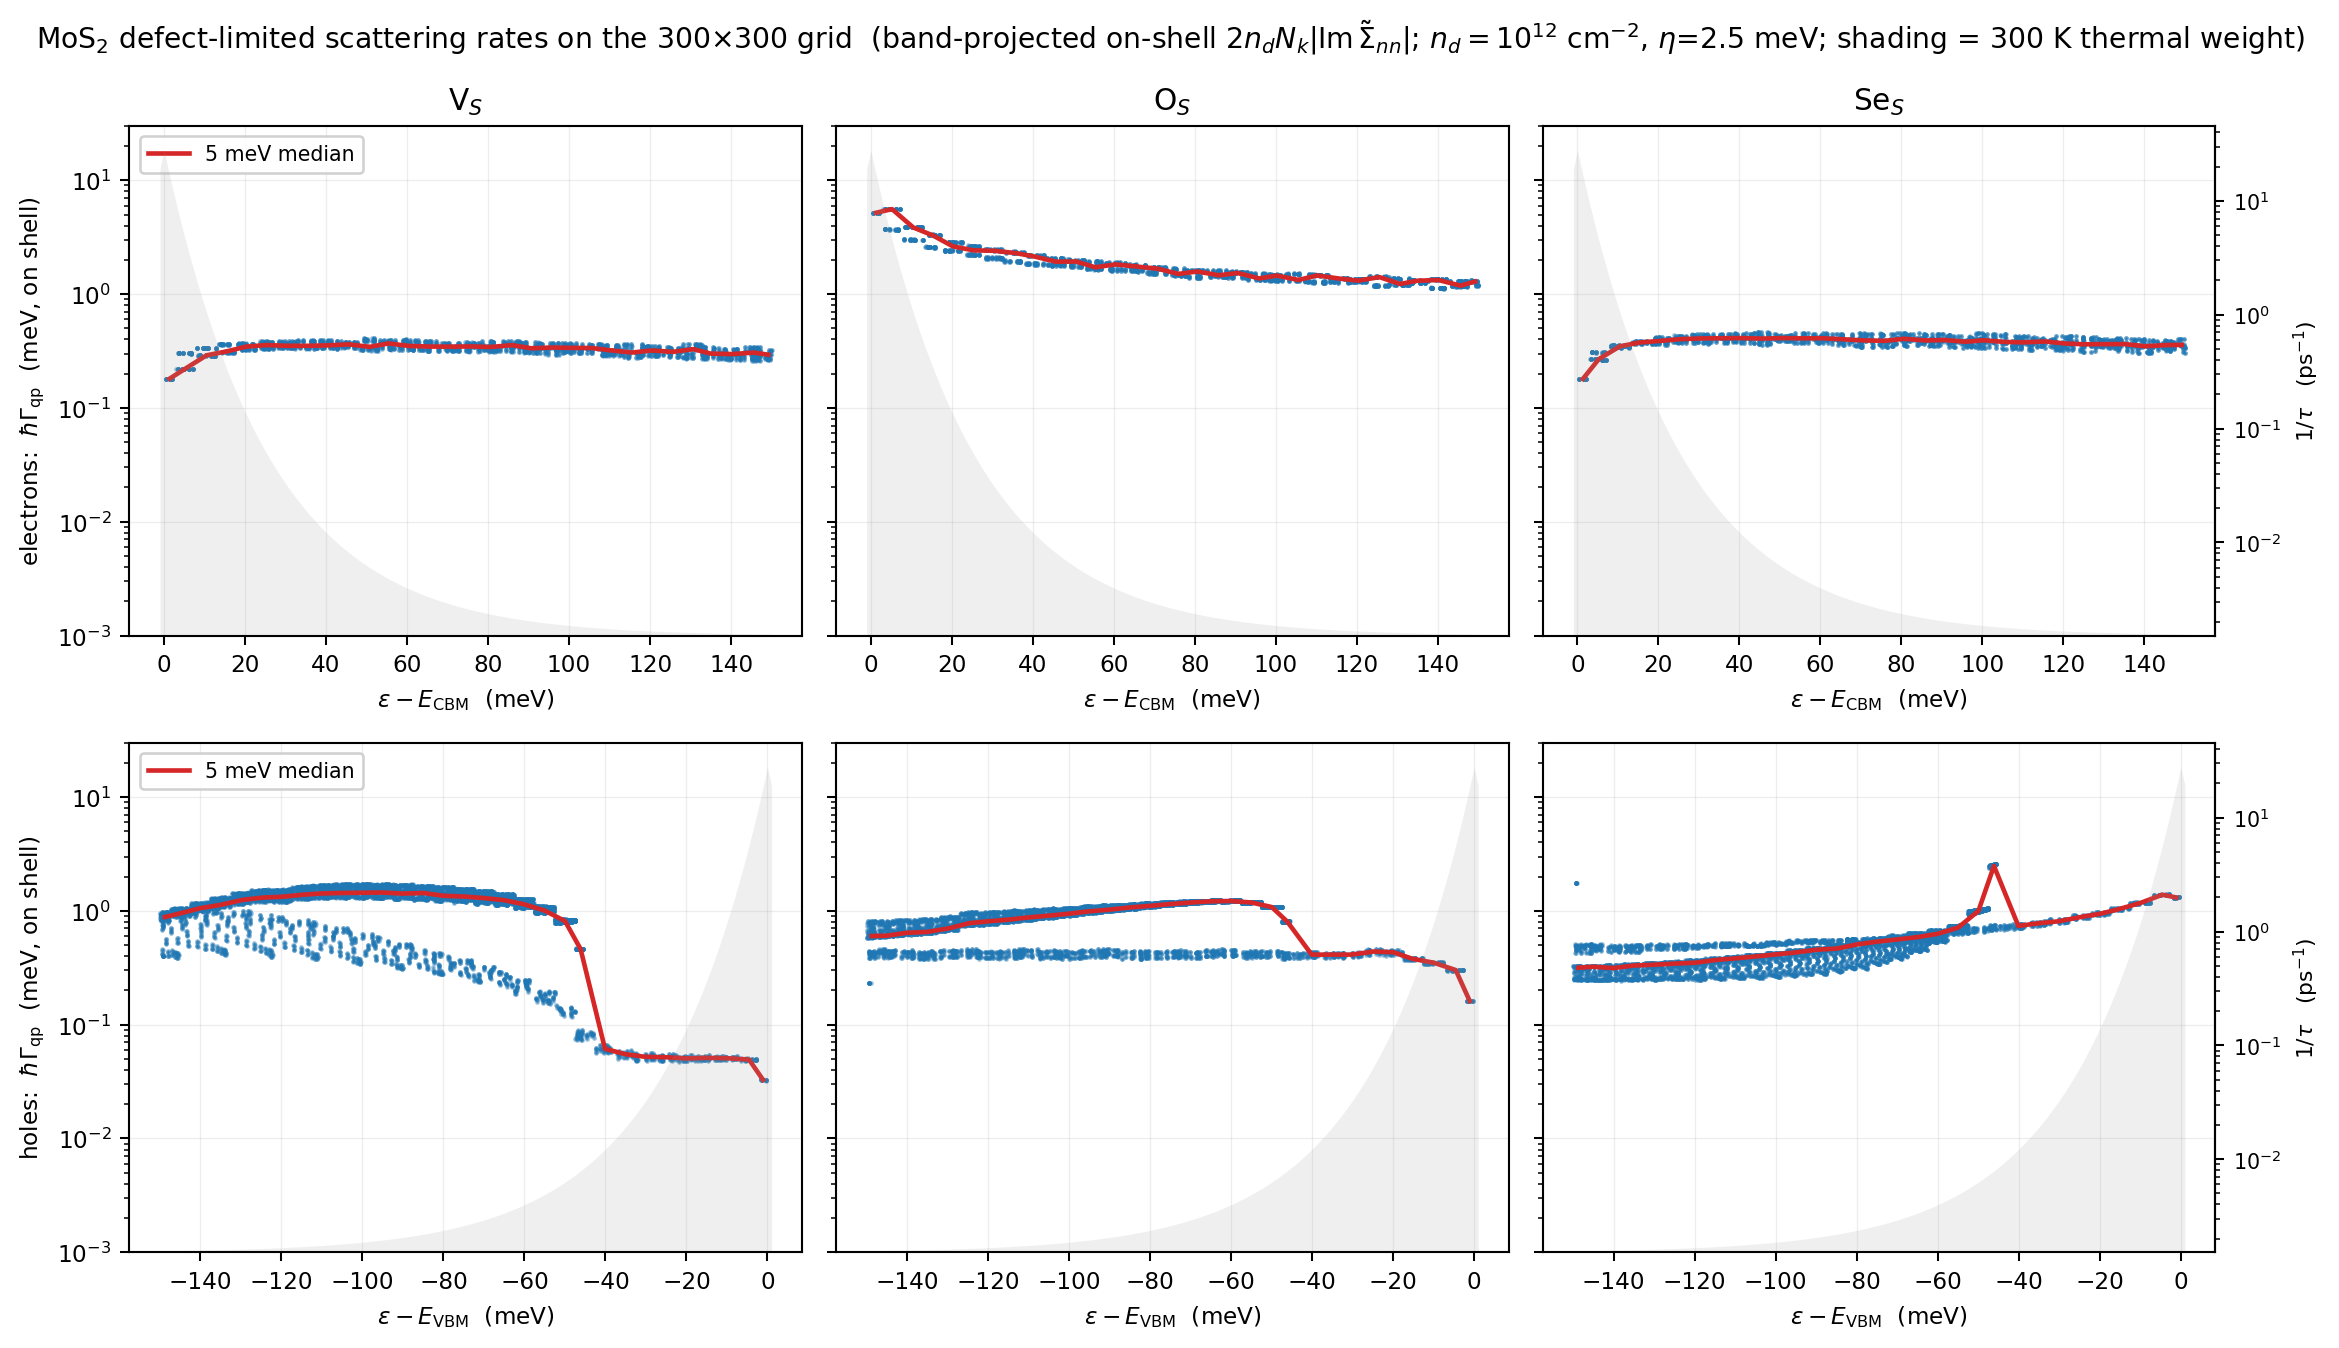
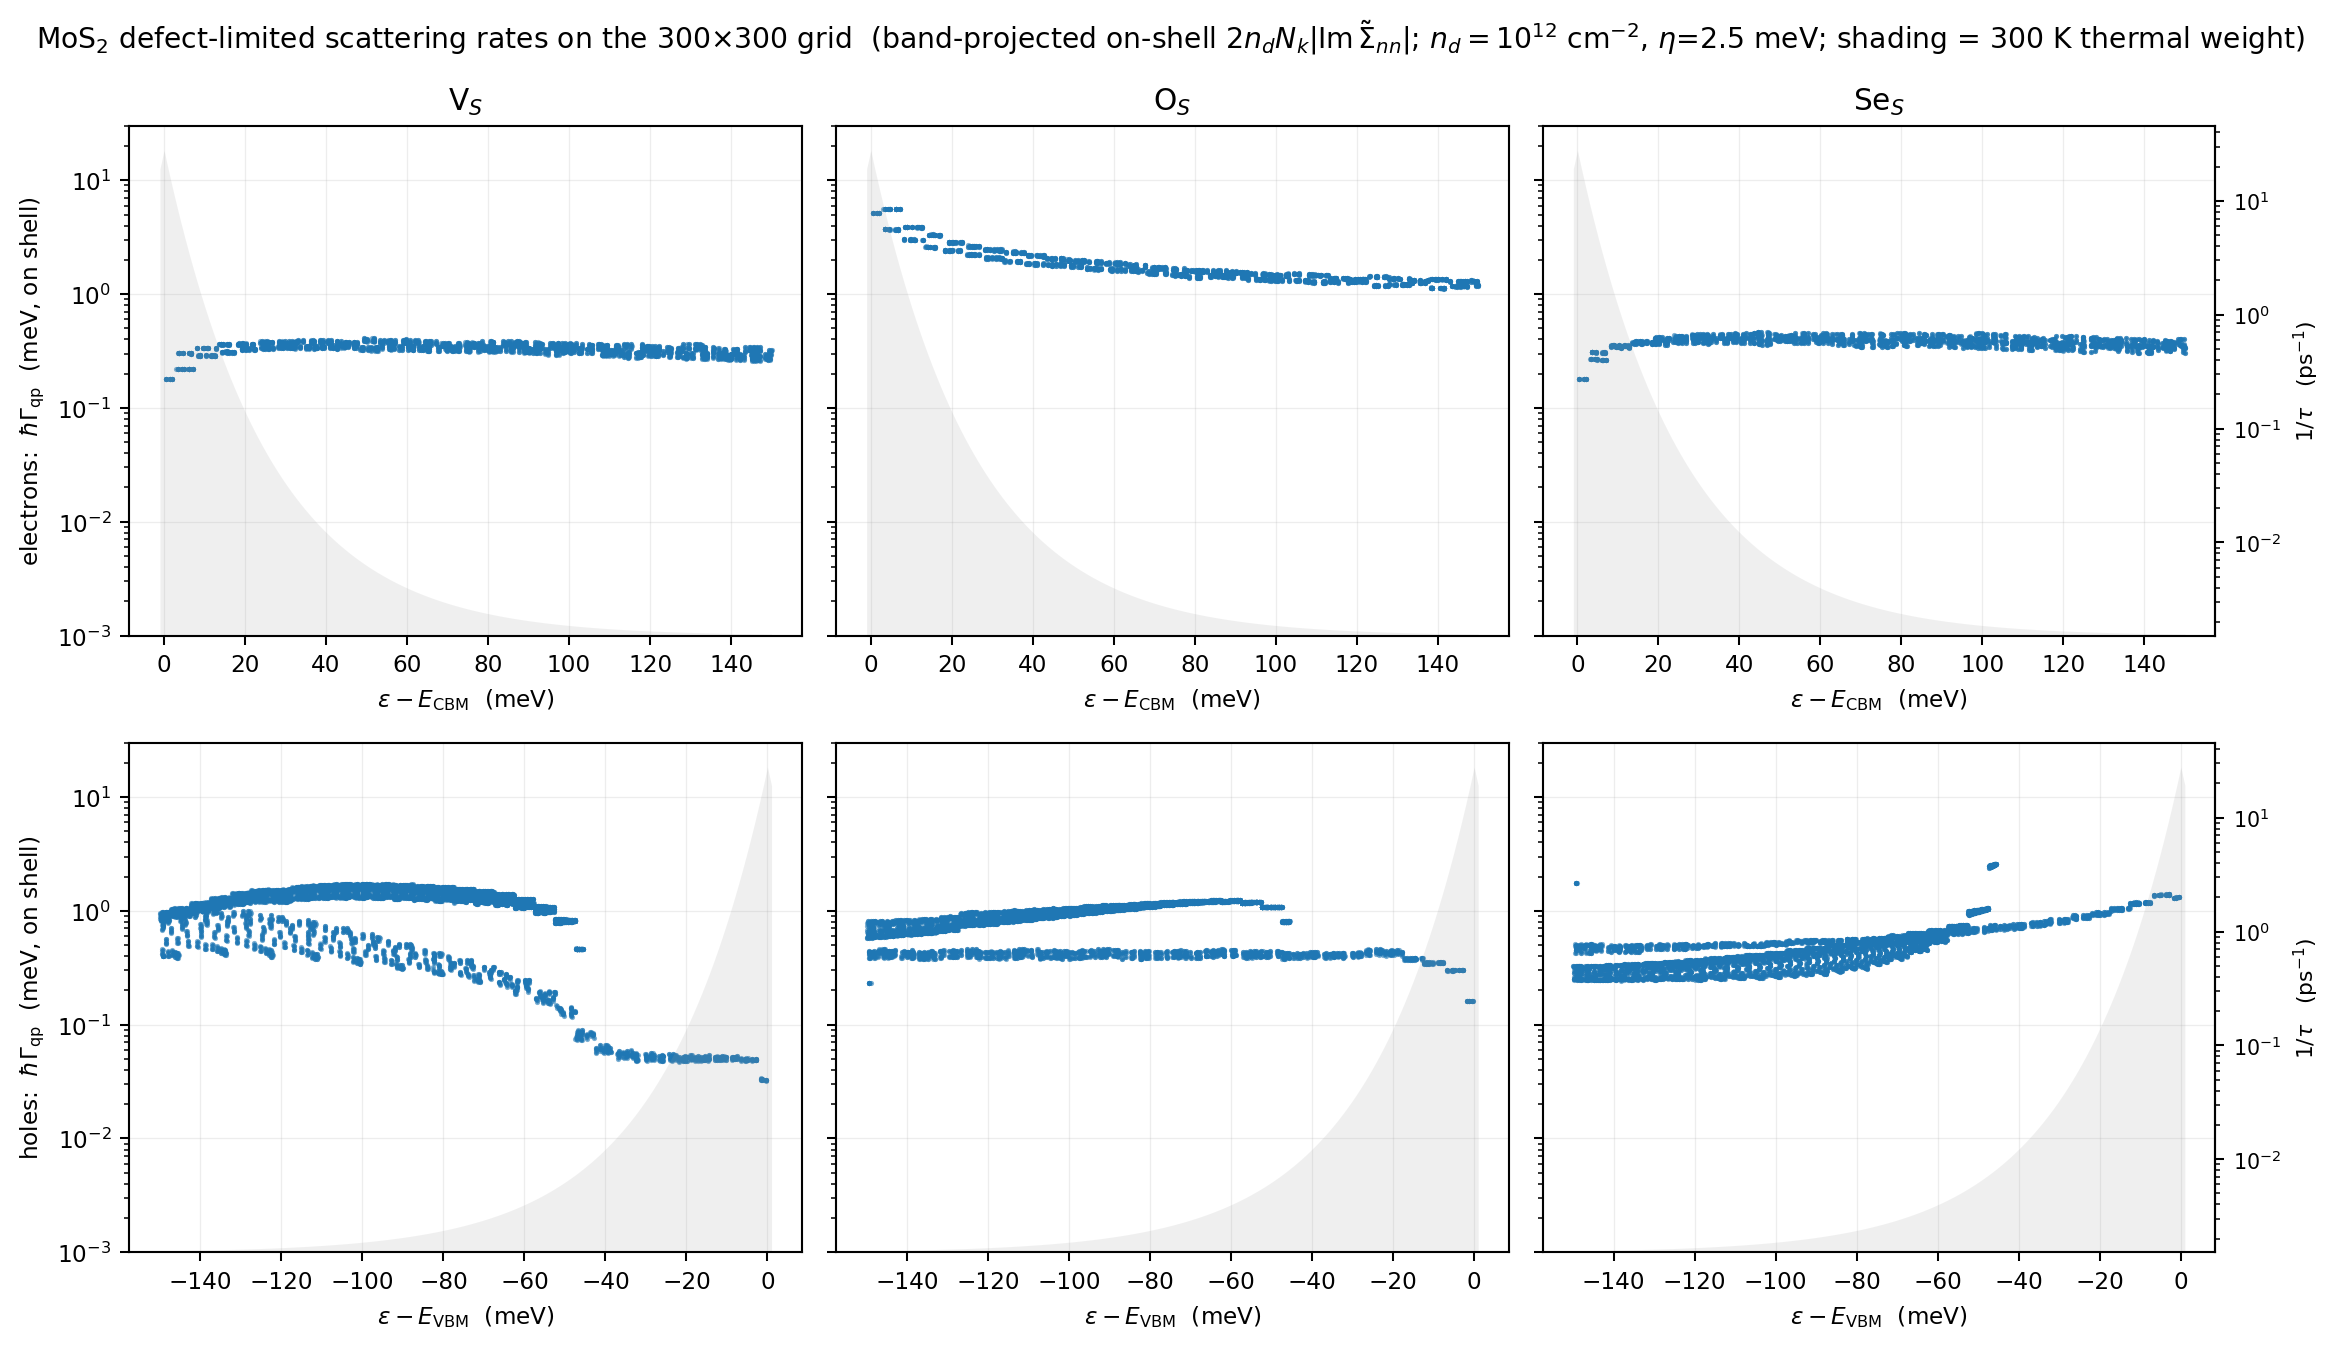
mos2-mobility: rate figure as pure scatter (drop the median line)

diff --git a/docs/pages/mos2-mobility.html b/docs/pages/mos2-mobility.html
@@ -47,7 +47,7 @@
 <p><img src="../assets/mos2mob_rate_audit.png" alt="on-shell band-projected linewidths in the 300 K transport windows" style="max-width:100%;height:auto;display:block;margin:1.2rem auto;border:1px solid #d0d7de;border-radius:6px"></p>
 <p><strong>Holes</strong>: V$_\mathrm{S}$ is nearly <em>transparent at the VBM edge</em> ($\hbar\Gamma$ = 0.04–0.05 meV over the top 40 meV) — its huge vertex lives in the $-0.28$ eV deep resonance and the $+0.02$ eV gap state, both outside the thermal window, and the full-$T$ unitary suppression of the deep well (the same physics that makes Born wrong by 53×) removes the band-edge scattering. Se$_\mathrm{S}$'s only feature — the weak isovalent resonance — sits <em>exactly at the VBM</em> ($\hbar\Gamma$ = 1.25 meV at the edge, 30× V$_\mathrm{S}$), squarely on top of the $e^{-|\varepsilon-\mathrm{edge}|/k_BT}$ weight; thermally averaged, $\langle\Gamma\rangle$ = 0.32 / 0.57 / 1.03 meV for V$_\mathrm{S}$/O$_\mathrm{S}$/Se$_\mathrm{S}$, and the $\tau$-weighting ($\langle 1/\Gamma\rangle \ne 1/\langle\Gamma\rangle$, amplified by V$_\mathrm{S}$'s transparent edge) reproduces the SERTA ratio $\mu_h$(V$_\mathrm{S}$)/$\mu_h$(Se$_\mathrm{S}$) = 6.0. <strong>Electrons</strong>: O$_\mathrm{S}$'s CBM resonance puts $\hbar\Gamma$ = 3.95 meV right at the edge ($\langle\Gamma\rangle$ = 3.4 meV, 12× the others) — $\mu_e$ last; V$_\mathrm{S}$ and Se$_\mathrm{S}$ are nearly identical (0.25 vs 0.28 meV), matching $\mu_e$ 7654 vs 7412. <strong>Why the maps mislead</strong>: they show the 22-band <em>trace</em> on a log scale spanning to the 42 eV O$_\mathrm{S}$ peak — transport only sees the top-band diagonal projection, on shell, within ~3$k_BT$ of the edge. Data <code>rate_audit.npz</code>, script <code>diag/rate_audit.py</code> (Anvil job 20136159).</p>
 
-<p><strong>The same rates resolved on a full 300×300 $k$ grid</strong> (11 304 hole and 5 120 electron states within 150 meV of their edges; every point is one grid state, red line the 5 meV median; right axis $1/\tau$):</p>
+<p><strong>The same rates resolved on a full 300×300 $k$ grid</strong> (11 304 hole and 5 120 electron states within 150 meV of their edges; every point is one grid state — the two spin-split branches resolve as separate arcs; right axis $1/\tau$):</p>
 <p><img src="../assets/mos2mob_rate_grid.png" alt="scattering rate vs energy on the 300x300 grid, three defects x electrons/holes" style="max-width:100%;height:auto;display:block;margin:1.2rem auto;border:1px solid #d0d7de;border-radius:6px"></p>
 <p>The grid resolves what a high-symmetry line cannot: <strong>the hole side is a $\Gamma$-pocket-versus-K-valley story</strong>. The doubly degenerate $\Gamma$ valence maximum sits at $E_\mathrm{VBM}-45.6$ meV, and below it the $\Gamma$ pocket dominates the phase space (the state count per 5 meV bin falls 590 → 72, a factor 6, on crossing it). In that deeper region all three defects scatter comparably ($\hbar\Gamma\approx1$–1.5 meV). Above it only the K/K′ valleys survive — and there the three separate by a factor of 27: V$_\mathrm{S}$ collapses to <strong>0.049 meV</strong> (a 26× step down at the $\Gamma$-pocket edge — the vacancy's $p_z$-heavy dangling-bond potential couples strongly to the out-of-plane $\Gamma$ states but barely to the in-plane K-valley valence band), O$_\mathrm{S}$ falls only 3× to 0.17–0.40 meV, and Se$_\mathrm{S}$ instead <em>rises</em> toward the edge to <strong>1.334 meV</strong> because its isovalent resonance is pinned at the VBM. Since the 300 K thermal weight (shading) lies almost entirely within ~26 meV of the edge, transport samples exclusively the K/K′ region, and V$_\mathrm{S}$'s transparency there is what produces $\mu_h$ = 15 243. On the electron side V$_\mathrm{S}$ (0.289 meV) and Se$_\mathrm{S}$ (0.306 meV) are flat and nearly identical across the whole window — matching $\mu_e$ = 7654 vs 7412 — while O$_\mathrm{S}$'s CBM resonance starts at 3.886 meV and decays to 1.3 meV at $+150$ meV. The SERTA ordering at 300 K (V$_\mathrm{S}$ 11 770 $\gg$ O$_\mathrm{S}$ 2 178 $\gtrsim$ Se$_\mathrm{S}$ 1 948) follows these edge rates directly; the IBTE vertex correction — 2.2× for Se$_\mathrm{S}$'s forward-peaked isovalent scattering versus 1.1× for O$_\mathrm{S}$ — is then what lifts Se$_\mathrm{S}$ (4 303) back above O$_\mathrm{S}$ (2 413) in the final table. Data <code>rate_grid_{VS,OS,SES}.npz</code>, scripts <code>diag/rate_grid.py</code> / <code>plot_rate_grid.py</code> (Anvil jobs 20140780/81/82; the Se$_\mathrm{S}$ hole side was computed twice on different nodes and agreed to 1.334 meV).</p>
 
